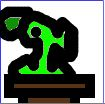
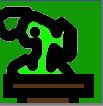
tower defense 2.1.1!

diff --git a/tower defense/cookies.js b/tower defense/cookies.js
@@ -78,9 +78,10 @@ class Projectile {
         this.x++;
     }
     draw(){
-        const ramenball = new Image()
-        ramenball.src = "ramenball.JPG";
-        ctx.drawImage(ramenball, this.x, this.y);
+        ctx.fillStyle = 'green';
+        ctx.beginPath();
+        ctx.arc(this.x, this.y, this.width, 0, Math.PI * 2);
+        ctx.fill();
     }
 }
 function handleProjectiles(){
@@ -123,6 +124,15 @@ class Defender {
         ramen.src = "peashooter.JPG";
         ctx.drawImage(ramen, this.x, this.y);
     }
+    draw2(){
+        const ice = new Image()
+        ice.src = "icepea.JPG";
+        ctx.drawImage(ice, this.x, this.y);
+    }
+
+
+
+
     update(){
         if (this.shooting){
             this.timer++;
@@ -145,10 +155,27 @@ canvas.addEventListener('click', function(e){
         numberOfResources -= defenderCost;
     }
 
+
+
 })
+
+var dblclick = 0;
+
+function dbl (){
+    dblclick += 1;
+    console.log("double click");
+}
+
+// canvas.addEventListener('dblclick', dbl)
+
+
 function handleDefenders(){
     for (let i = 0; i < defenders.length; i++){
-        defenders[i].draw();
+
+
+            defenders[i].draw();
+            defenders[i].update();
+
         defenders[i].update();
         if (enemyPositions.indexOf(defenders[i].y) !== -1) {
             defenders[i].shooting = true;

diff --git a/tower defense/jimmy.css b/tower defense/jimmy.css
@@ -6,7 +6,7 @@
     transform: translate(-50%, -50%);
     width: 900px;
     height: 600px;
-
+background-color: lawngreen;
 }
 
 @font-face {
